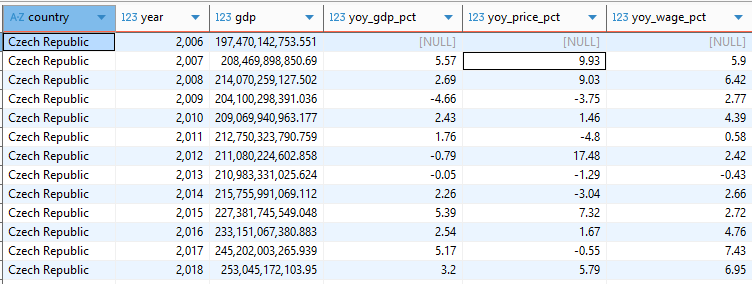
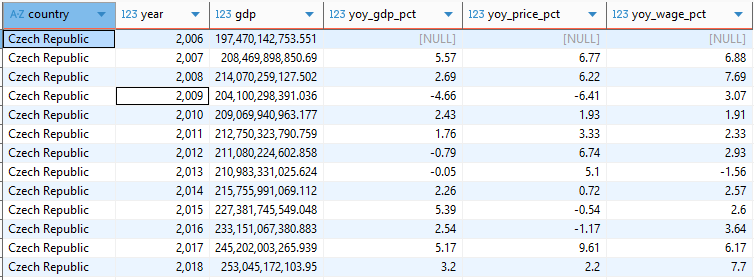
update README

diff --git a/README.md b/README.md
@@ -411,7 +411,7 @@ ORDER BY yoy_price_pct ASC;
 
 ### 5. Má výška HDP vliv na změny ve mzdách a cenách potravin?
 
-Pro tuto analýyu jsem zjistil procentuelní meziroční změnu HDP a tuto změnu porovnával s již vypočítanou meziroční změnou cen produktů a mezd.  
+Pro tuto analýzu jsem zjistil procentuelní meziroční změnu HDP a tuto změnu porovnával s již vypočítanou meziroční změnou cen produktů a mezd.  
 
 ```
 CREATE OR REPLACE VIEW v_gdp_price_wage AS 
@@ -423,15 +423,15 @@ WITH gdp_cte AS (
         LAG(gdp) OVER (ORDER BY year) AS prev_gdp
     FROM t_vladimir_sip_project_SQL_secondary_final tf
 ),
-median_prices AS (
+avg_prices AS (
     SELECT year,
-           PERCENTILE_CONT(0.5) WITHIN GROUP (ORDER BY avg_price_czk) AS median_price
+           ROUND(AVG(avg_price_czk), 2) AS avg_price
     FROM t_vladimir_sip_project_sql_primary_final
     GROUP BY year
 ),
-median_wages AS (
+avg_wages AS (
     SELECT year,
-           PERCENTILE_CONT(0.5) WITHIN GROUP (ORDER BY avg_wage_czk) AS median_wage
+           ROUND(AVG(avg_wage_czk), 2) AS avg_wage
     FROM t_vladimir_sip_project_sql_primary_final
     GROUP BY YEAR
 ),
@@ -441,24 +441,43 @@ combined AS (
         g.YEAR,
         g.gdp,
         g.prev_gdp,
-        mp.median_price,
-        LAG (mp.median_price) OVER (ORDER BY g.year) AS prev_price,
-        mw.median_wage,
-        LAG (mw.median_wage) OVER (ORDER BY g.year) AS prev_wage
+        ap.avg_price,
+        LAG(ap.avg_price) OVER (ORDER BY g.year) AS prev_price,
+        aw.avg_wage,
+        LAG(aw.avg_wage) OVER (ORDER BY g.year) AS prev_wage
     FROM gdp_cte g
-LEFT JOIN median_prices mp ON g.YEAR = mp.YEAR
-LEFT JOIN median_wages mw ON g.YEAR = mw.year
+LEFT JOIN avg_prices ap ON g.YEAR = ap.YEAR
+LEFT JOIN avg_wages aw ON g.YEAR = aw.year
 )
 SELECT 
-        country,
-        YEAR,
-        gdp,
-        ROUND(((gdp-prev_gdp)/prev_gdp)::NUMERIC *100, 2) AS yoy_gdp_pct,
-        ROUND(((median_price-prev_price)/prev_price)::NUMERIC *100, 2) AS yoy_price_pct, 
-        ROUND(((median_wage-prev_wage)/prev_wage)::NUMERIC *100, 2) AS yoy_wage_pct
+    country,
+    YEAR,
+    gdp,
+    ROUND(((gdp - prev_gdp) / prev_gdp * 100)::NUMERIC, 2) AS yoy_gdp_pct,
+    ROUND(((avg_price - prev_price) / prev_price * 100)::NUMERIC, 2) AS yoy_price_pct,
+    ROUND(((avg_wage - prev_wage) / prev_wage * 100)::NUMERIC, 2) AS yoy_wage_pct
 FROM combined
-ORDER BY YEAR; 
+ORDER BY YEAR;
 ```
+## Závěr
 ![hdp_wage_price_diff](Obrazky/hdp_wage_price_diff.PNG)
 
-Při porovnání meziročních změn HDP, mezd a cen potravin lze vypozorovat určitou korelaci mezi růstem HDP a mzdami – ve většině případů se jejich trend pohybuje stejným směrem. Naopak mezi HDP a cenami potravin taková viditelná korelace není. Ceny potravin se často mění bez ohledu na vývoj HDP – mohou růst i v letech ekonomického jak je vidět v roce 2012. 
+Při porovnání meziročních změn HDP, mezd a cen potravin lze vypozorovat určitou korelaci mezi růstem HDP a mzdami – ve většině případů se jejich trend pohybuje stejným směrem. Naopak mezi HDP a cenami potravin taková viditelná korelace není. Ceny potravin se často mění bez ohledu na vývoj HDP – mohou růst i v letech ekonomického poklesu, jak je vidět v roce 2012. 
+
+## Co jsem se naučil
+
+Během tohoto projektu jsem se naučil pracovat s reálnými daty o cenách potravin, mzdách a HDP v prostředí SQL. Při analýze jsem postupně zdokonalil následující dovednosti:
+
+-  Pokročilý návrh SQL dotazů: Získal jsem zkušenosti s tvorbou složitějších SQL dotazů, efektivním spojováním tabulek a využíváním WITH (CTE - Common Table Expressions) pro lepší čitelnost a přehlednost.
+
+-  Naučil jsem se používat GROUP BY, AVG(), COUNT() a ROUND()...
+
+-  Meziroční srovnání: Osvojil jsem si práci s funkcí LAG() pro výpočet meziročních změn cen, mezd nebo HDP.
+
+-  Kombinace více datových zdrojů: Úspěšně jsem propojil různé tabulky (cenová data, mzdy, HDP) a vytvořil z nich jednotné přehledy pro hlubší analýzu vztahů mezi nimi.
+
+-  Analytické myšlení: Zlepšil jsem schopnost převádět reálné otázky (např. „Zdražují potraviny rychleji než rostou mzdy?“) do SQL dotazů.
+
+
+
+
